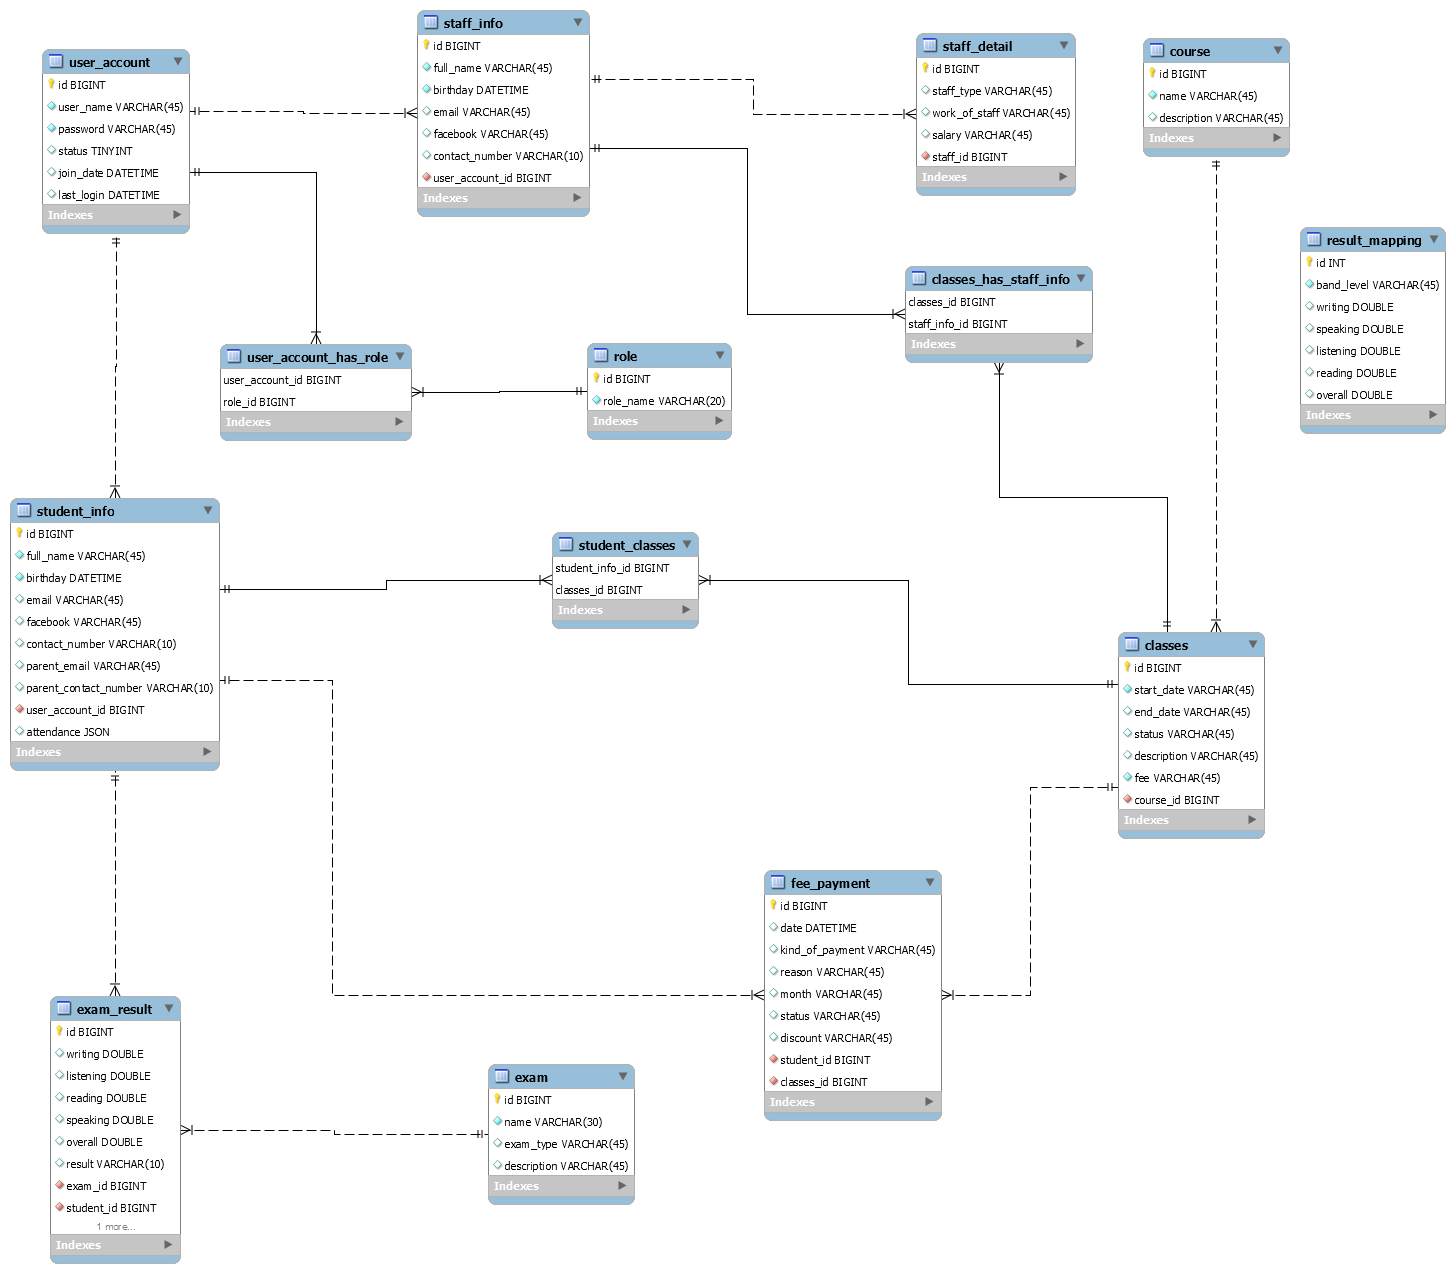
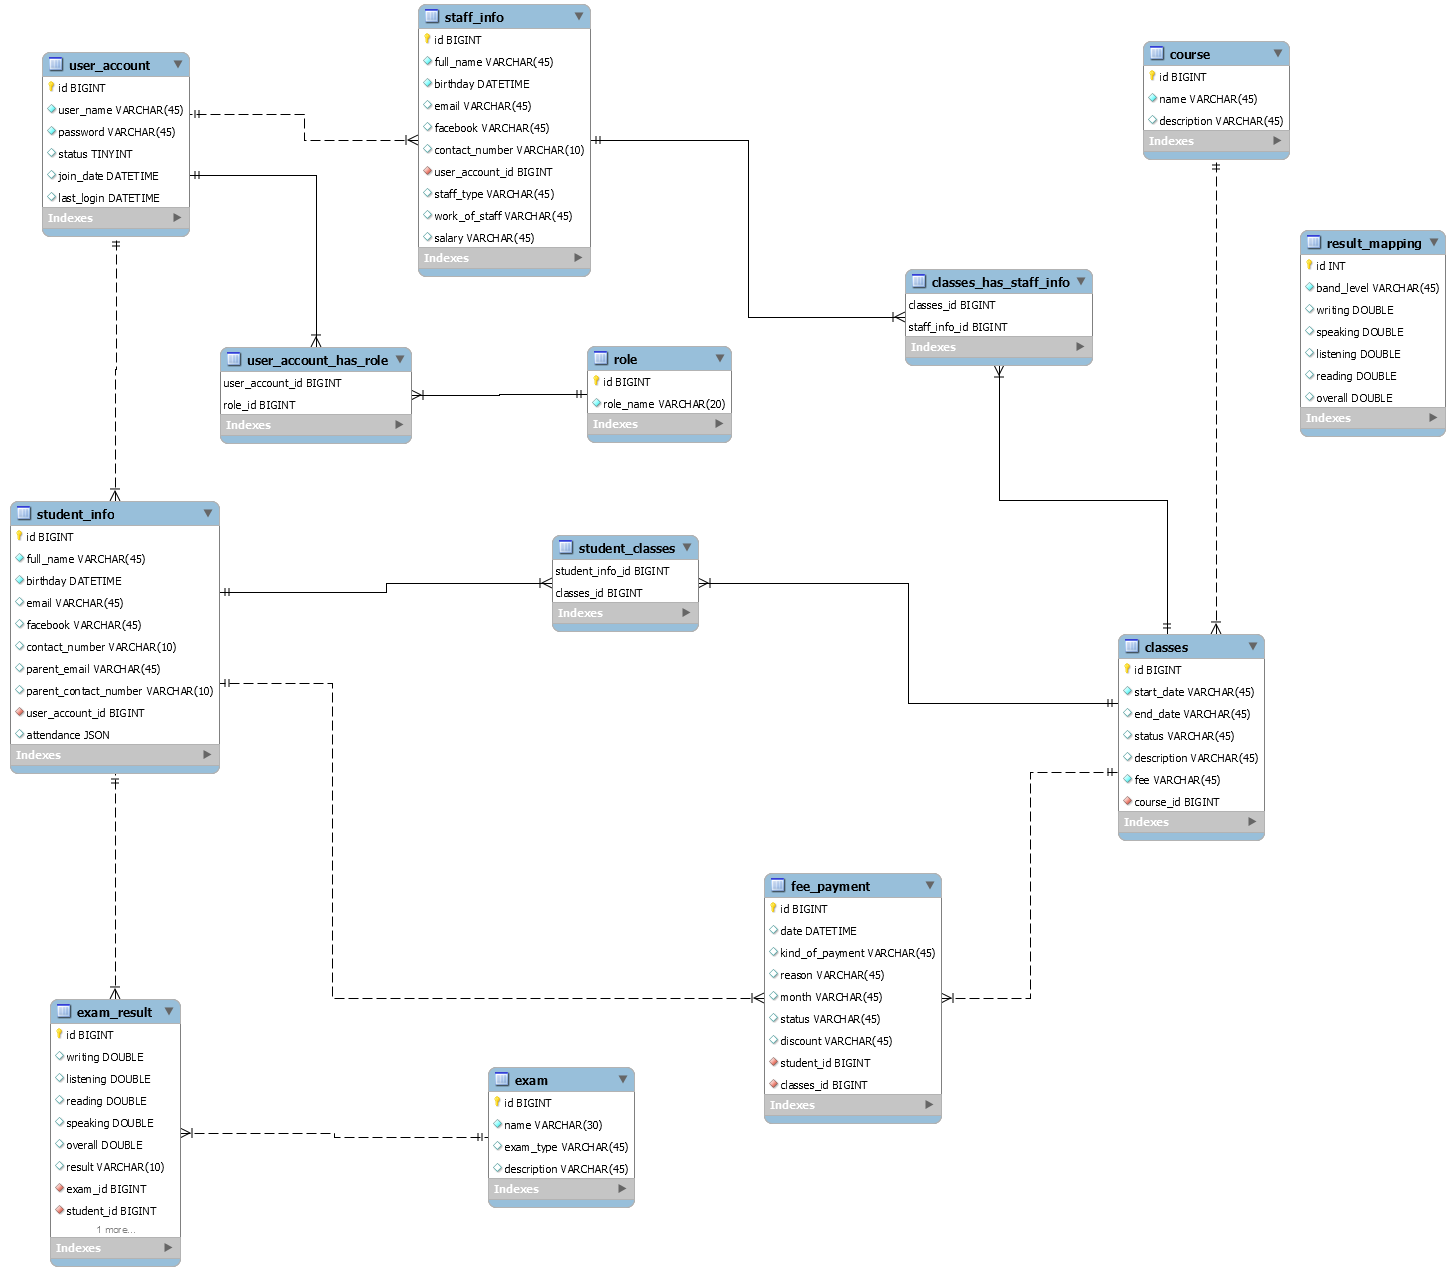
https://gemmy-english.atlassian.net/browse/GE-4 Update database: merge staffdetail into staff info

diff --git a/src/main/java/com/project/english/gemmy/model/jpa/StaffInfo.java b/src/main/java/com/project/english/gemmy/model/jpa/StaffInfo.java
@@ -31,10 +31,14 @@ public class StaffInfo implements Serializable {
 
 	@Column(name="full_name")
 	private String fullName;
+	
+	private String salary;
 
-	//bi-directional many-to-one association to StaffDetail
-	@OneToMany(mappedBy="staffInfo")
-	private List<StaffDetail> staffDetails;
+	@Column(name="staff_type")
+	private String staffType;
+
+	@Column(name="work_of_staff")
+	private String workOfStaff;
 
 	//bi-directional many-to-many association to Class
 	@ManyToMany
@@ -105,28 +109,6 @@ public class StaffInfo implements Serializable {
 		this.fullName = fullName;
 	}
 
-	public List<StaffDetail> getStaffDetails() {
-		return this.staffDetails;
-	}
-
-	public void setStaffDetails(List<StaffDetail> staffDetails) {
-		this.staffDetails = staffDetails;
-	}
-
-	public StaffDetail addStaffDetail(StaffDetail staffDetail) {
-		getStaffDetails().add(staffDetail);
-		staffDetail.setStaffInfo(this);
-
-		return staffDetail;
-	}
-
-	public StaffDetail removeStaffDetail(StaffDetail staffDetail) {
-		getStaffDetails().remove(staffDetail);
-		staffDetail.setStaffInfo(null);
-
-		return staffDetail;
-	}
-
 	public List<Classes> getClasses() {
 		return this.classes;
 	}
@@ -141,6 +123,30 @@ public class StaffInfo implements Serializable {
 
 	public void setUserAccount(UserAccount userAccount) {
 		this.userAccount = userAccount;
+	}
+	
+	public String getSalary() {
+		return this.salary;
+	}
+
+	public void setSalary(String salary) {
+		this.salary = salary;
+	}
+
+	public String getStaffType() {
+		return this.staffType;
+	}
+
+	public void setStaffType(String staffType) {
+		this.staffType = staffType;
+	}
+
+	public String getWorkOfStaff() {
+		return this.workOfStaff;
+	}
+
+	public void setWorkOfStaff(String workOfStaff) {
+		this.workOfStaff = workOfStaff;
 	}
 
 }

diff --git a/src/main/java/com/project/english/gemmy/model/repositories/StudentInfoRepository.java b/src/main/java/com/project/english/gemmy/model/repositories/StudentInfoRepository.java
@@ -3,7 +3,6 @@ package com.project.english.gemmy.model.repositories;
 import java.util.List;
 
 import org.springframework.data.jpa.repository.JpaRepository;
-import org.springframework.data.jpa.repository.Query;
 import org.springframework.stereotype.Repository;
 
 import com.project.english.gemmy.model.jpa.StudentInfo;
